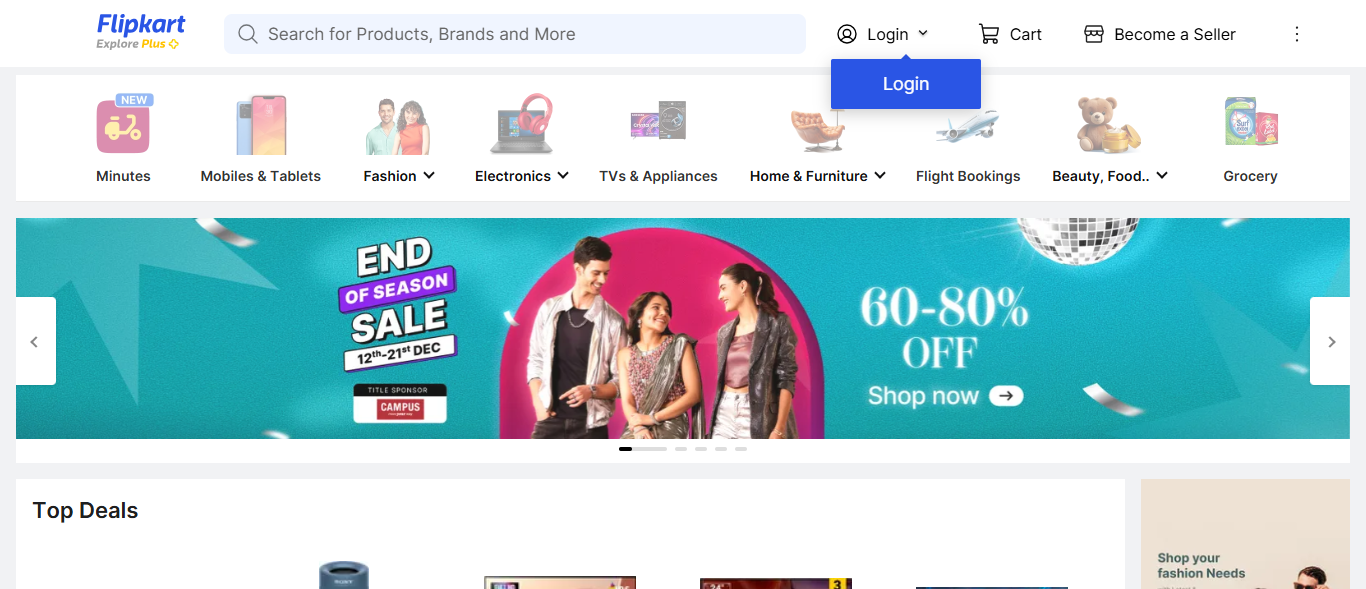
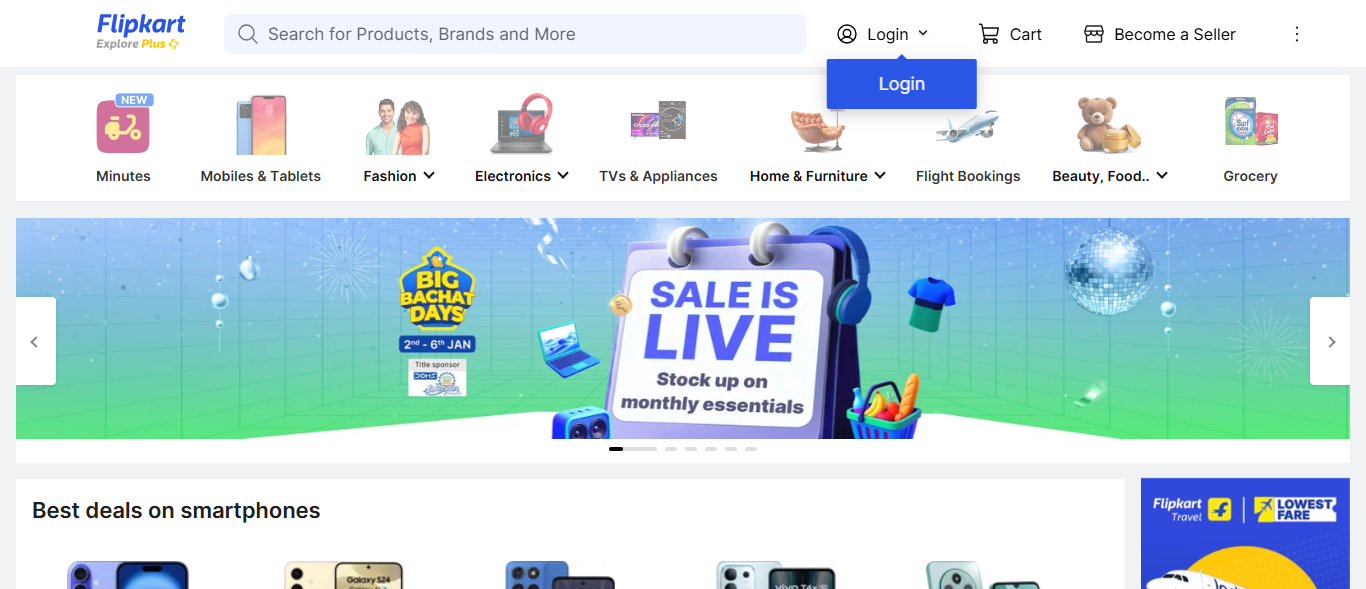
Pre-defined common functions added

diff --git a/results/log.html b/results/log.html
@@ -2074,25 +2074,25 @@ storage = function () {
 window.output = {};
 </script>
 <script type="text/javascript">
-window.output["suite"] = [1,2,3,0,[],[1,0,9344],[[4,5,6,0,[],[1,122,9210],[],[[7,0,0,[],[1,531,8777],[[0,8,9,0,10,11,0,0,[1,538,6062],[[539,2,12]]],[0,13,9,0,14,0,0,0,[1,6602,404],[]],[0,15,9,0,16,0,0,0,[1,7007,2299],[]]]]],[],[1,1,0,0]]],[],[],[1,1,0,0]];
+window.output["suite"] = [1,2,3,0,[],[0,0,10614],[[4,5,6,0,[],[0,120,10231],[],[[7,0,0,[],[0,675,9488,8],[[0,9,10,0,11,12,0,0,[1,683,8463],[[683,2,13]]],[0,14,10,0,15,0,0,0,[1,9196,836],[]],[0,16,17,0,18,19,0,0,[1,10087,17],[]],[0,20,0,0,0,0,0,0,[0,10115,26],[[10125,5,8]]]]]],[],[1,0,1,0]]],[],[],[1,0,1,0]];
 </script>
 <script type="text/javascript">
 window.output["strings"] = [];
 </script>
 <script type="text/javascript">
-window.output["strings"] = window.output["strings"].concat(["*","*Bhumikcodes","*C:\\bhumikcodes","*..","*Main","*C:\\bhumikcodes\\main.robot","*../main.robot","*Open Chrome","*Open Browser","*SeleniumLibrary","*<p>Opens a new browser instance to the optional <code>url\x3c/code>.\x3c/p>","*<a href=\"https://www.flipkart.com/\">https://www.flipkart.com/\x3c/a>    chrome","*Opening browser 'chrome' to base url '<a href=\"https://www.flipkart.com/\">https://www.flipkart.com/\x3c/a>'.","*Maximize Browser Window","*<p>Maximizes current browser window.\x3c/p>","*Close Browser","*<p>Closes the current browser.\x3c/p>"]);
[1 lines of base64/hex data omitted]
 </script>
 <script type="text/javascript">
-window.output["stats"] = [[{"elapsed":"00:00:09","fail":0,"label":"All Tests","pass":1,"skip":0}],[],[{"elapsed":"00:00:09","fail":0,"id":"s1","label":"Bhumikcodes","name":"Bhumikcodes","pass":1,"skip":0},{"elapsed":"00:00:09","fail":0,"id":"s1-s1","label":"Bhumikcodes.Main","name":"Main","pass":1,"skip":0}]];
+window.output["stats"] = [[{"elapsed":"00:00:09","fail":1,"label":"All Tests","pass":0,"skip":0}],[],[{"elapsed":"00:00:11","fail":1,"id":"s1","label":"Bhumikcodes","name":"Bhumikcodes","pass":0,"skip":0},{"elapsed":"00:00:10","fail":1,"id":"s1-s1","label":"Bhumikcodes.Main","name":"Main","pass":0,"skip":0}]];
 </script>
 <script type="text/javascript">
-window.output["errors"] = [];
+window.output["errors"] = [[632,4,21]];
 </script>
 <script type="text/javascript">
-window.output["baseMillis"] = 1765114768900;
+window.output["baseMillis"] = 1767103082064;
 </script>
 <script type="text/javascript">
-window.output["generated"] = 9466;
+window.output["generated"] = 10709;
 </script>
 <script type="text/javascript">
 window.output["expand_keywords"] = null;

diff --git a/log.html b/log.html
@@ -2074,25 +2074,25 @@ storage = function () {
 window.output = {};
 </script>
 <script type="text/javascript">
-window.output["suite"] = [1,2,3,0,[],[1,0,9516],[],[[4,0,0,[],[1,761,8753],[[0,5,6,0,7,8,0,0,[1,763,5998],[[764,2,9]]],[0,10,6,0,11,0,0,0,[1,6761,392],[]],[0,12,13,0,14,15,0,0,[1,7153,0],[]],[0,16,6,0,17,0,0,0,[1,7154,2359],[]]]]],[],[1,1,0,0]];
+window.output["suite"] = [1,2,3,0,[],[1,0,10378],[],[[4,0,0,[],[1,763,9611],[[0,5,6,0,7,8,0,0,[1,765,7036],[[779,2,9]]],[0,10,6,0,11,0,0,0,[1,7801,314],[]],[0,12,13,0,14,15,0,0,[1,8116,1],[]],[0,16,6,0,17,0,0,0,[1,8117,2257],[]]]]],[],[1,1,0,0]];
 </script>
 <script type="text/javascript">
 window.output["strings"] = [];
 </script>
 <script type="text/javascript">
-window.output["strings"] = window.output["strings"].concat(["*","*Main","*C:\\bhumikcodes\\main.robot","*main.robot","*Open Chrome","*Open Browser","*SeleniumLibrary","*<p>Opens a new browser instance to the optional <code>url\x3c/code>.\x3c/p>","*<a href=\"https://www.flipkart.com/\">https://www.flipkart.com/\x3c/a>    chrome","*Opening browser 'chrome' to base url '<a href=\"https://www.flipkart.com/\">https://www.flipkart.com/\x3c/a>'.","*Maximize Browser Window","*<p>Maximizes current browser window.\x3c/p>","*Log To Console","*BuiltIn","*<p>Logs the given message to the console.\x3c/p>","*message=Passed","*Close Browser","*<p>Closes the current browser.\x3c/p>"]);
+window.output["strings"] = window.output["strings"].concat(["*","*Main","*C:\\bhumikcodes\\main.robot","*main.robot","*Open Chrome","*Open Browser","*SeleniumLibrary","*<p>Opens a new browser instance to the optional <code>url\x3c/code>.\x3c/p>","*<a href=\"https://www.flipkart.com/\">https://www.flipkart.com/\x3c/a>    chrome","*Opening browser 'chrome' to base url '<a href=\"https://www.flipkart.com/\">https://www.flipkart.com/\x3c/a>'.","*Maximize Browser Window","*<p>Maximizes current browser window.\x3c/p>","*Log To Console","*BuiltIn","*<p>Logs the given message to the console.\x3c/p>","*message=Test Passed!","*Close Browser","*<p>Closes the current browser.\x3c/p>"]);
 </script>
 <script type="text/javascript">
-window.output["stats"] = [[{"elapsed":"00:00:09","fail":0,"label":"All Tests","pass":1,"skip":0}],[],[{"elapsed":"00:00:10","fail":0,"id":"s1","label":"Main","name":"Main","pass":1,"skip":0}]];
+window.output["stats"] = [[{"elapsed":"00:00:10","fail":0,"label":"All Tests","pass":1,"skip":0}],[],[{"elapsed":"00:00:10","fail":0,"id":"s1","label":"Main","name":"Main","pass":1,"skip":0}]];
 </script>
 <script type="text/javascript">
 window.output["errors"] = [];
 </script>
 <script type="text/javascript">
-window.output["baseMillis"] = 1766744357098;
+window.output["baseMillis"] = 1766745525097;
 </script>
 <script type="text/javascript">
-window.output["generated"] = 10101;
+window.output["generated"] = 10617;
 </script>
 <script type="text/javascript">
 window.output["expand_keywords"] = null;

diff --git a/results/report.html b/results/report.html
@@ -1887,22 +1887,22 @@ storage = function () {
 window.output = {};
 </script>
 <script type="text/javascript">
-window.output["suite"] = [1,2,3,0,[],[1,0,9344],[[4,5,6,0,[],[1,122,9210],[],[[7,0,0,[],[1,531,8777],[]]],[],[1,1,0,0]]],[],[],[1,1,0,0]];
+window.output["suite"] = [1,2,3,0,[],[0,0,10614],[[4,5,6,0,[],[0,120,10231],[],[[7,0,0,[],[0,675,9488,8],[]]],[],[1,0,1,0]]],[],[],[1,0,1,0]];
 </script>
 <script type="text/javascript">
 window.output["strings"] = [];
 </script>
 <script type="text/javascript">
-window.output["strings"] = window.output["strings"].concat(["*","*Bhumikcodes","*C:\\bhumikcodes","*..","*Main","*C:\\bhumikcodes\\main.robot","*../main.robot","*Open Chrome"]);
+window.output["strings"] = window.output["strings"].concat(["*","*Bhumikcodes","*C:\\bhumikcodes","*..","*Main","*C:\\bhumikcodes\\main.robot","*../main.robot","*Open Chrome","*No keyword with name 'Terms Of Use' found."]);
 </script>
 <script type="text/javascript">
-window.output["stats"] = [[{"elapsed":"00:00:09","fail":0,"label":"All Tests","pass":1,"skip":0}],[],[{"elapsed":"00:00:09","fail":0,"id":"s1","label":"Bhumikcodes","name":"Bhumikcodes","pass":1,"skip":0},{"elapsed":"00:00:09","fail":0,"id":"s1-s1","label":"Bhumikcodes.Main","name":"Main","pass":1,"skip":0}]];
+window.output["stats"] = [[{"elapsed":"00:00:09","fail":1,"label":"All Tests","pass":0,"skip":0}],[],[{"elapsed":"00:00:11","fail":1,"id":"s1","label":"Bhumikcodes","name":"Bhumikcodes","pass":0,"skip":0},{"elapsed":"00:00:10","fail":1,"id":"s1-s1","label":"Bhumikcodes.Main","name":"Main","pass":0,"skip":0}]];
 </script>
 <script type="text/javascript">
-window.output["baseMillis"] = 1765114768900;
+window.output["baseMillis"] = 1767103082064;
 </script>
 <script type="text/javascript">
-window.output["generated"] = 9466;
+window.output["generated"] = 10709;
 </script>
 <script type="text/javascript">
 window.output["expand_keywords"] = null;

diff --git a/report.html b/report.html
@@ -1887,7 +1887,7 @@ storage = function () {
 window.output = {};
 </script>
 <script type="text/javascript">
-window.output["suite"] = [1,2,3,0,[],[1,0,9516],[],[[4,0,0,[],[1,761,8753],[]]],[],[1,1,0,0]];
+window.output["suite"] = [1,2,3,0,[],[1,0,10378],[],[[4,0,0,[],[1,763,9611],[]]],[],[1,1,0,0]];
 </script>
 <script type="text/javascript">
 window.output["strings"] = [];
@@ -1896,13 +1896,13 @@ window.output["strings"] = [];
 window.output["strings"] = window.output["strings"].concat(["*","*Main","*C:\\bhumikcodes\\main.robot","*main.robot","*Open Chrome"]);
 </script>
 <script type="text/javascript">
-window.output["stats"] = [[{"elapsed":"00:00:09","fail":0,"label":"All Tests","pass":1,"skip":0}],[],[{"elapsed":"00:00:10","fail":0,"id":"s1","label":"Main","name":"Main","pass":1,"skip":0}]];
+window.output["stats"] = [[{"elapsed":"00:00:10","fail":0,"label":"All Tests","pass":1,"skip":0}],[],[{"elapsed":"00:00:10","fail":0,"id":"s1","label":"Main","name":"Main","pass":1,"skip":0}]];
 </script>
 <script type="text/javascript">
-window.output["baseMillis"] = 1766744357098;
+window.output["baseMillis"] = 1766745525097;
 </script>
 <script type="text/javascript">
-window.output["generated"] = 10101;
+window.output["generated"] = 10617;
 </script>
 <script type="text/javascript">
 window.output["expand_keywords"] = null;

diff --git a/pages/login.py b/pages/login.py
@@ -5,16 +5,16 @@ from selenium.webdriver.support.ui import WebDriverWait
 from selenium.webdriver.support import expected_conditions as EC
 import time
 from utils.testData import test_data
-from pages.common_func import privacy_policy, terms_of_use
+
 
 class LoginPage:
 
-    def __init__(self, driver):
-        self.driver = driver
+    # def __init__(self, driver):
+    #     self.driver = driver
 
 
-    def login_scenario(self):
-        driver=self.driver
+    def login_scenario(driver):
+        # driver=self.driver
         try:
             driver.find_element(By.XPATH, "//span[text()='Login']").click()
             wait = WebDriverWait(driver, 10, poll_frequency=1)
@@ -34,12 +34,7 @@ class LoginPage:
                     print("There you go")
                 input.clear()
                 time.sleep(2)
-            privacy_policy(driver)
-            terms_of_use(driver)
-            # object.terms_of_use()
-            # object.privacy_policy()
         except Exception as e:
             print(e)
-        driver.close()
 
 

diff --git a/pages/common_func.py b/pages/common_func.py
@@ -2,6 +2,8 @@ import  selenium
 import time
 from selenium.webdriver.common.keys import Keys
 from selenium.webdriver.common.by import By
+from selenium.webdriver.support.ui import WebDriverWait
+from selenium.webdriver.support import expected_conditions as EC
 
 
 def terms_of_use(driver):
@@ -28,3 +30,11 @@ def privacy_policy(driver):
         driver.close()
         driver.switch_to.window(driver.window_handles[0])
         return
+
+def click(driver,element):
+    driver.find_element(By.XPATH,element).click()
+    return
+
+def wait(driver,element):
+    WebDriverWait(driver, 10, poll_frequency=1).until(EC.element_to_be_clickable((By.XPATH,element)))
+

diff --git a/tests/test_website.py b/tests/test_website.py
@@ -1,0 +1,19 @@
+import selenium
+from drivers.driver_setup import create_driver
+from pages.login import LoginPage
+from pages.common_func import *
+
+def test_website():
+    driver = create_driver()
+    driver.get("https://www.flipkart.com/")
+    driver.save_screenshot(filename="Evidence.png")
+    LoginPage.login_scenario(driver)
+    privacy_policy(driver)
+    terms_of_use(driver)
+    driver.back()
+    click(driver,element="//*[@alt='Mobiles & Tablets']")
+    time.sleep(5)
+    click(driver,element="(//*[text()='VIEW ALL'])[1]")
+    wait(driver,element="//div[text()='Popularity']")
+    driver.close()
+    driver.quit()

diff --git a/run.py b/run.py
@@ -1,11 +1,11 @@
 import pytest
 import sys
 import os
-from tests.test_login import *
+from tests.test_website import *
 
 
 if __name__=="__main__":
-    test_login1()
+    test_website()
 
 # # Ensure project root is in sys.path
 # project_root = os.path.dirname(os.path.abspath(__file__))
